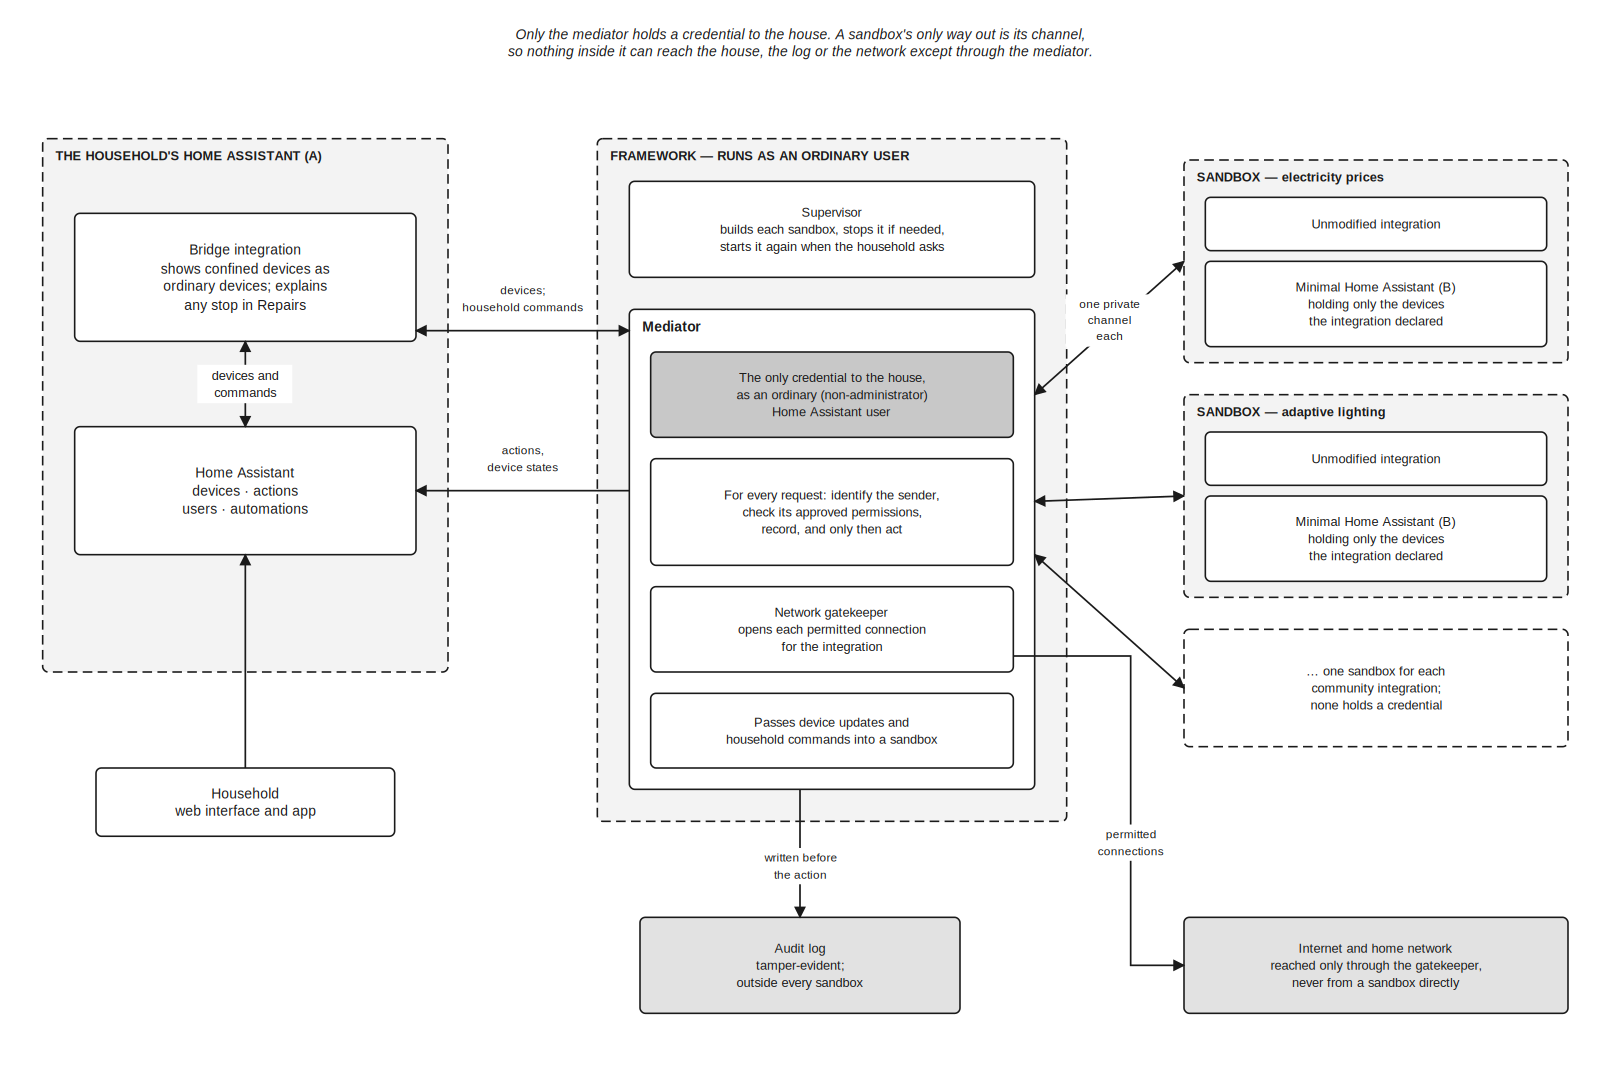
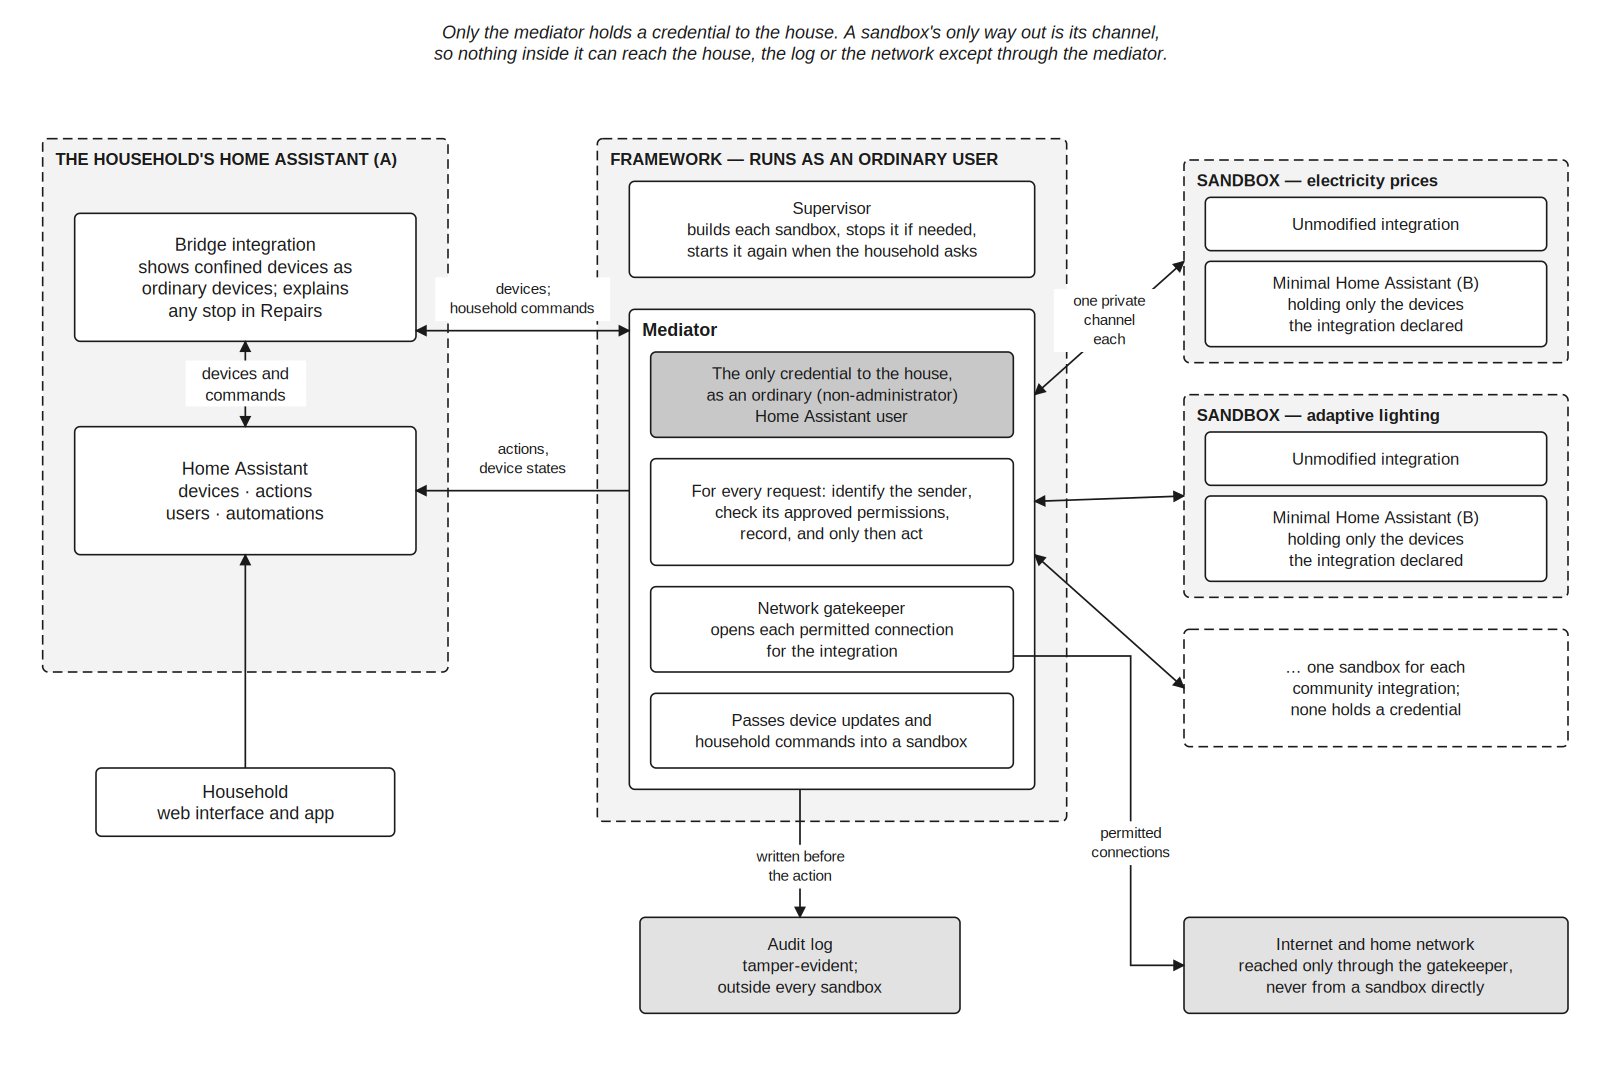
Interim figures: text 1.3x larger (svg9 text_scale, default 1 leaves the final's figures byte-identical); Figure 2's headings, step boxes and sandbox edge adjusted to fit

diff --git a/v2/figures/svg9.py b/v2/figures/svg9.py
@@ -23,8 +23,10 @@ def esc(s):
 class Canvas:
     """An SVG under construction. Coordinates are pixels from the top left."""
 
-    def __init__(self, width, height):
+    def __init__(self, width, height, text_scale=1.0):
+        """`text_scale` enlarges every text size; the interim figures use it, the final's do not."""
         self.width, self.height = width, height
+        self.text_scale = text_scale
         self.parts = [
             f'<svg xmlns="http://www.w3.org/2000/svg" width="{width}" height="{height}" '
             f'viewBox="0 0 {width} {height}">',
@@ -38,12 +40,13 @@ class Canvas:
              italic=False):
         """One or more lines, split on newlines, centred vertically on y."""
         lines = label.split("\n")
+        size = size * self.text_scale
         step = size + 4
         start = y - (len(lines) - 1) * step / 2
         style = ' font-style="italic"' if italic else ""
         for i, line in enumerate(lines):
             self.parts.append(
-                f'<text x="{x:.0f}" y="{start + i * step:.0f}" font-size="{size}" '
+                f'<text x="{x:.0f}" y="{start + i * step:.0f}" font-size="{size:g}" '
                 f'font-family="{FONT}" font-weight="{weight}" fill="{fill}"{style} '
                 f'text-anchor="{anchor}" dominant-baseline="middle">{esc(line)}</text>')
 
@@ -55,7 +58,8 @@ class Canvas:
             f'<rect x="{x}" y="{y}" width="{w}" height="{h}" rx="5" fill="{FILL[fill]}" '
             f'stroke="{INK}" stroke-width="{stroke}"{dash}/>')
         if title:
-            self.text(x + 12, y + 16, title, size=title_size, weight="bold", anchor="start")
+            top = y + 16 + 0.85 * title_size * (self.text_scale - 1)
+            self.text(x + 12, top, title, size=title_size, weight="bold", anchor="start")
         if label:
             self.text(x + w / 2, y + h / 2 + (8 if title else 0), label, size=size,
                       weight=weight)
@@ -71,8 +75,9 @@ class Canvas:
     def label(self, x, y, text, size=12, anchor="middle"):
         """Text on a white ground, so that it stays legible where it crosses a line."""
         lines = text.split("\n")
-        w = 0.6 * size * max(len(s) for s in lines) + 10
-        h = (size + 4) * len(lines) + 4
+        shown = size * self.text_scale
+        w = 0.6 * shown * max(len(s) for s in lines) + 10
+        h = (shown + 4) * len(lines) + 4
         left = {"middle": x - w / 2, "start": x - 5, "end": x - w + 5}[anchor]
         self.parts.append(f'<rect x="{left:.0f}" y="{y - h / 2:.0f}" width="{w:.0f}" '
                           f'height="{h:.0f}" fill="#ffffff"/>')

diff --git a/v2/figures/fig_i5_2_request.py b/v2/figures/fig_i5_2_request.py
@@ -20,26 +20,26 @@ LANES = {  # name: (x, heading)
 SANDBOX = ("int", "b", "half")
 TOP, BOTTOM = 110, 1240
 
-c = Canvas(1400, 1280)
-c.box(30, 40, 650, BOTTOM - 20, fill="light", dashed=True, title="INSIDE THE SANDBOX")
+c = Canvas(1400, 1280, text_scale=1.3)
+c.box(30, 40, 640, BOTTOM - 20, fill="light", dashed=True, title="INSIDE THE SANDBOX")
 for key, (x, heading) in LANES.items():
-    c.box(x - 95, 70, 190, 44, heading, fill="white" if key in SANDBOX else "mid", size=12,
+    c.box(x - 100, 76, 200, 44, heading, fill="white" if key in SANDBOX else "mid", size=11,
           weight="bold")
-    c.line([(x, 114), (x, BOTTOM)], arrow=False, dashed=True, width=1)
+    c.line([(x, 120), (x, BOTTOM)], arrow=False, dashed=True, width=1)
 
 
 def msg(a, b, y, text, dashed=False):
     """A message from lane a to lane b, its label just above the arrow."""
     xa, xb = LANES[a][0], LANES[b][0]
     c.line([(xa, y), (xb, y)], dashed=dashed)
-    lift = (15 * (text.count("\n") + 1) + 4) / 2 + 3
+    lift = ((11 * c.text_scale + 4) * (text.count("\n") + 1) + 4) / 2 + 3
     c.label((xa + xb) / 2, y - lift, text, size=11)
 
 
 def step(lane, y, text, h=46):
     """Work a lane does itself: a box on its lifeline."""
     x = LANES[lane][0]
-    c.box(x - 125, y - h / 2, 250, h, text, fill="white", size=11)
+    c.box(x - 138, y - h / 2, 276, h, text, fill="white", size=11)
 
 
 def panel(y, title):

diff --git a/v2/figures/fig_i5_1_system.py b/v2/figures/fig_i5_1_system.py
@@ -21,7 +21,7 @@ from svg9 import Canvas
 
 OUT = Path(__file__).parent / "fig_i5_1_system.svg"
 
-c = Canvas(1500, 1010)
+c = Canvas(1500, 1010, text_scale=1.3)
 
 # --- (A), the house's own instance -------------------------------------------------------
 c.box(40, 130, 380, 500, fill="light", dashed=True,
